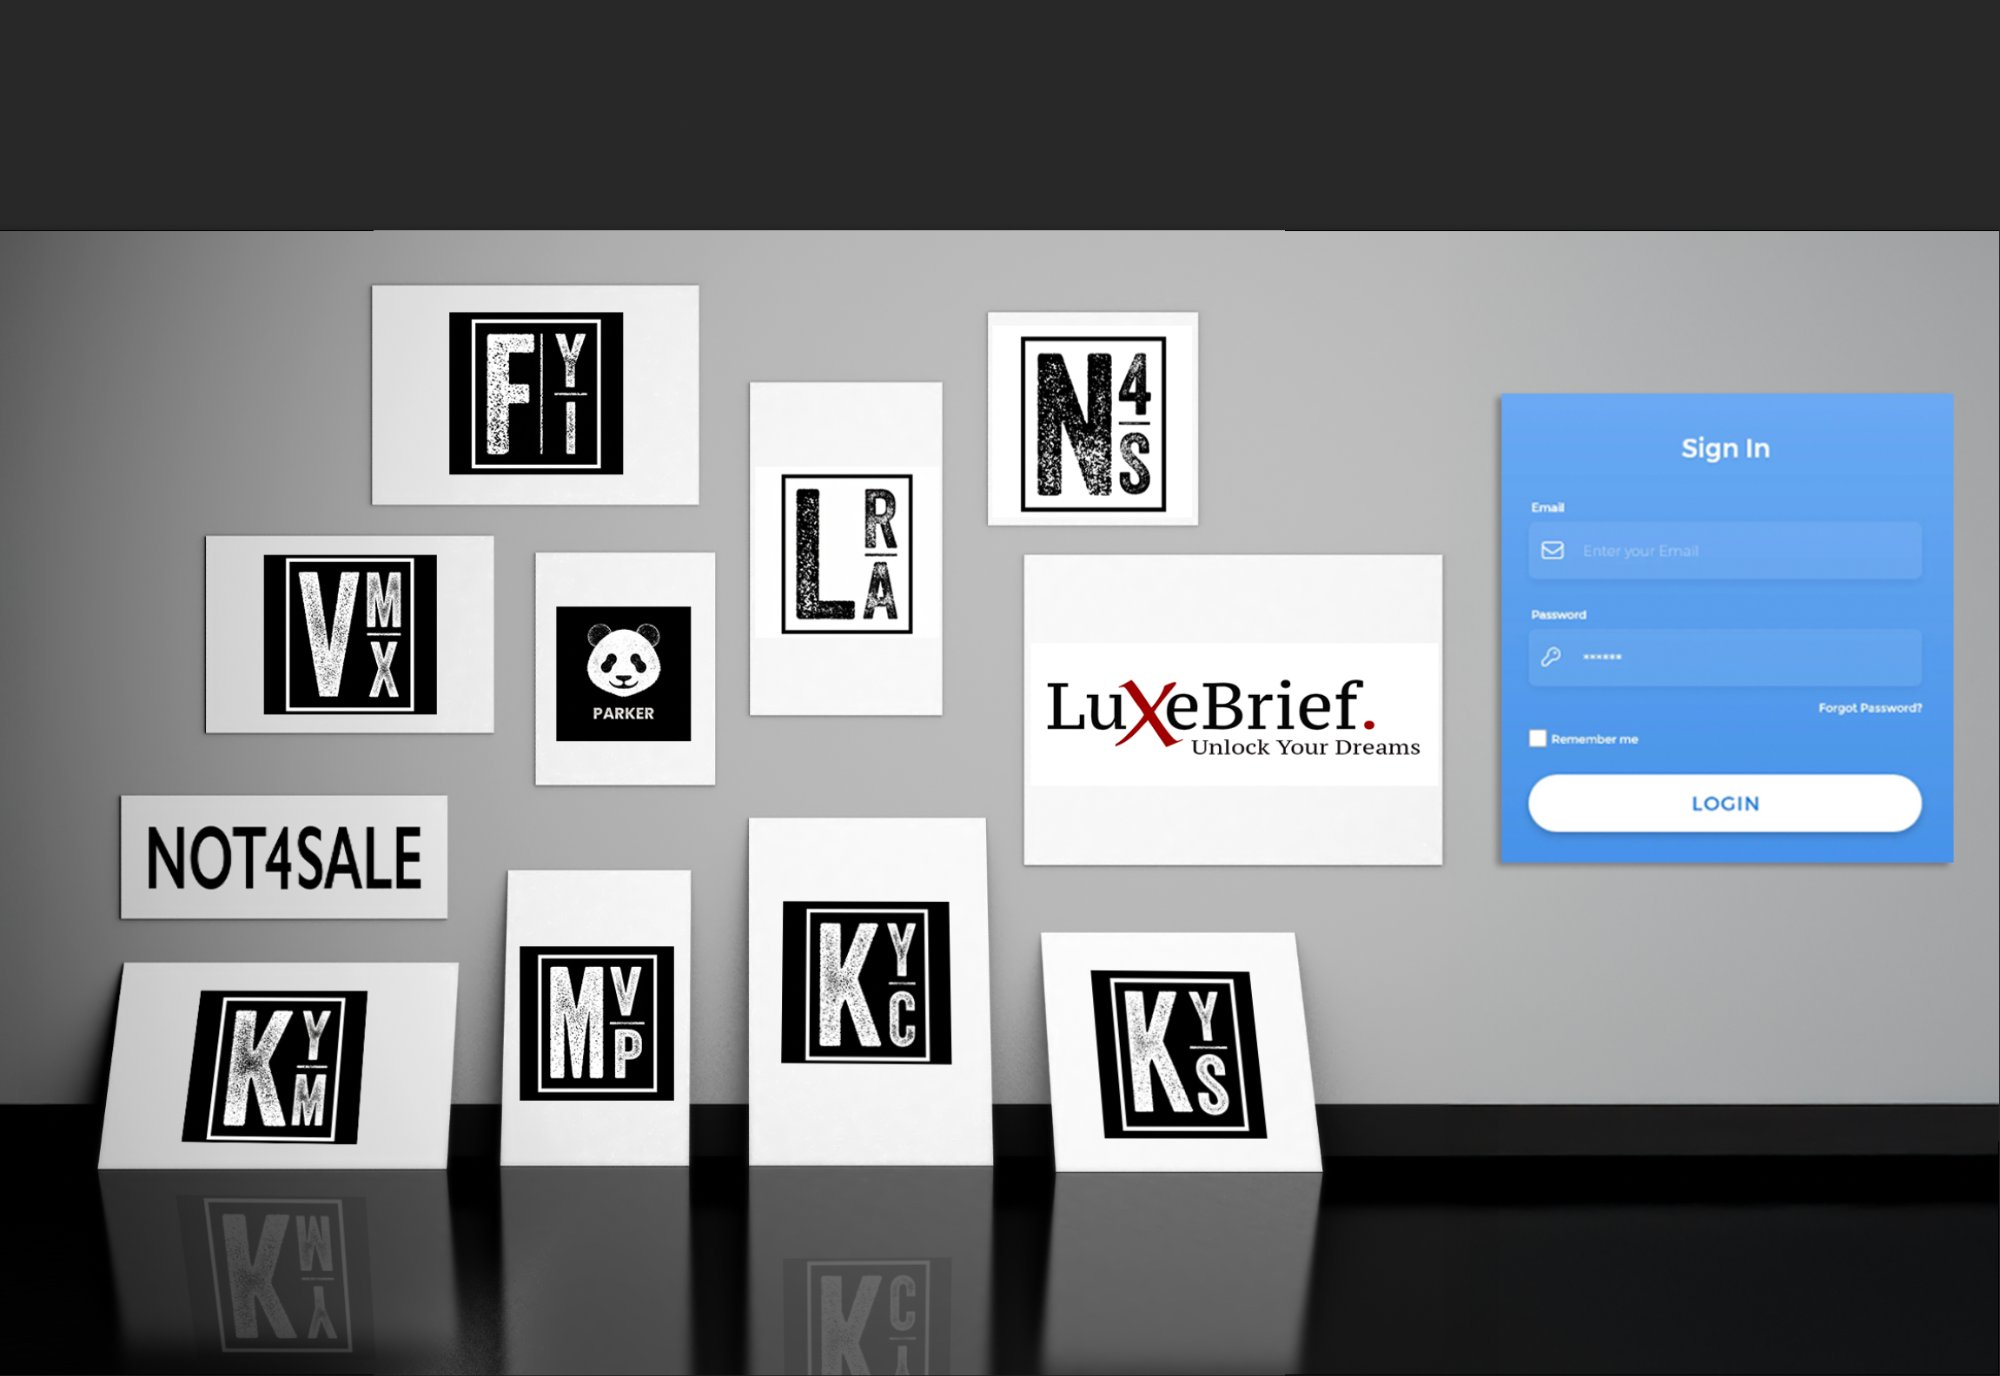
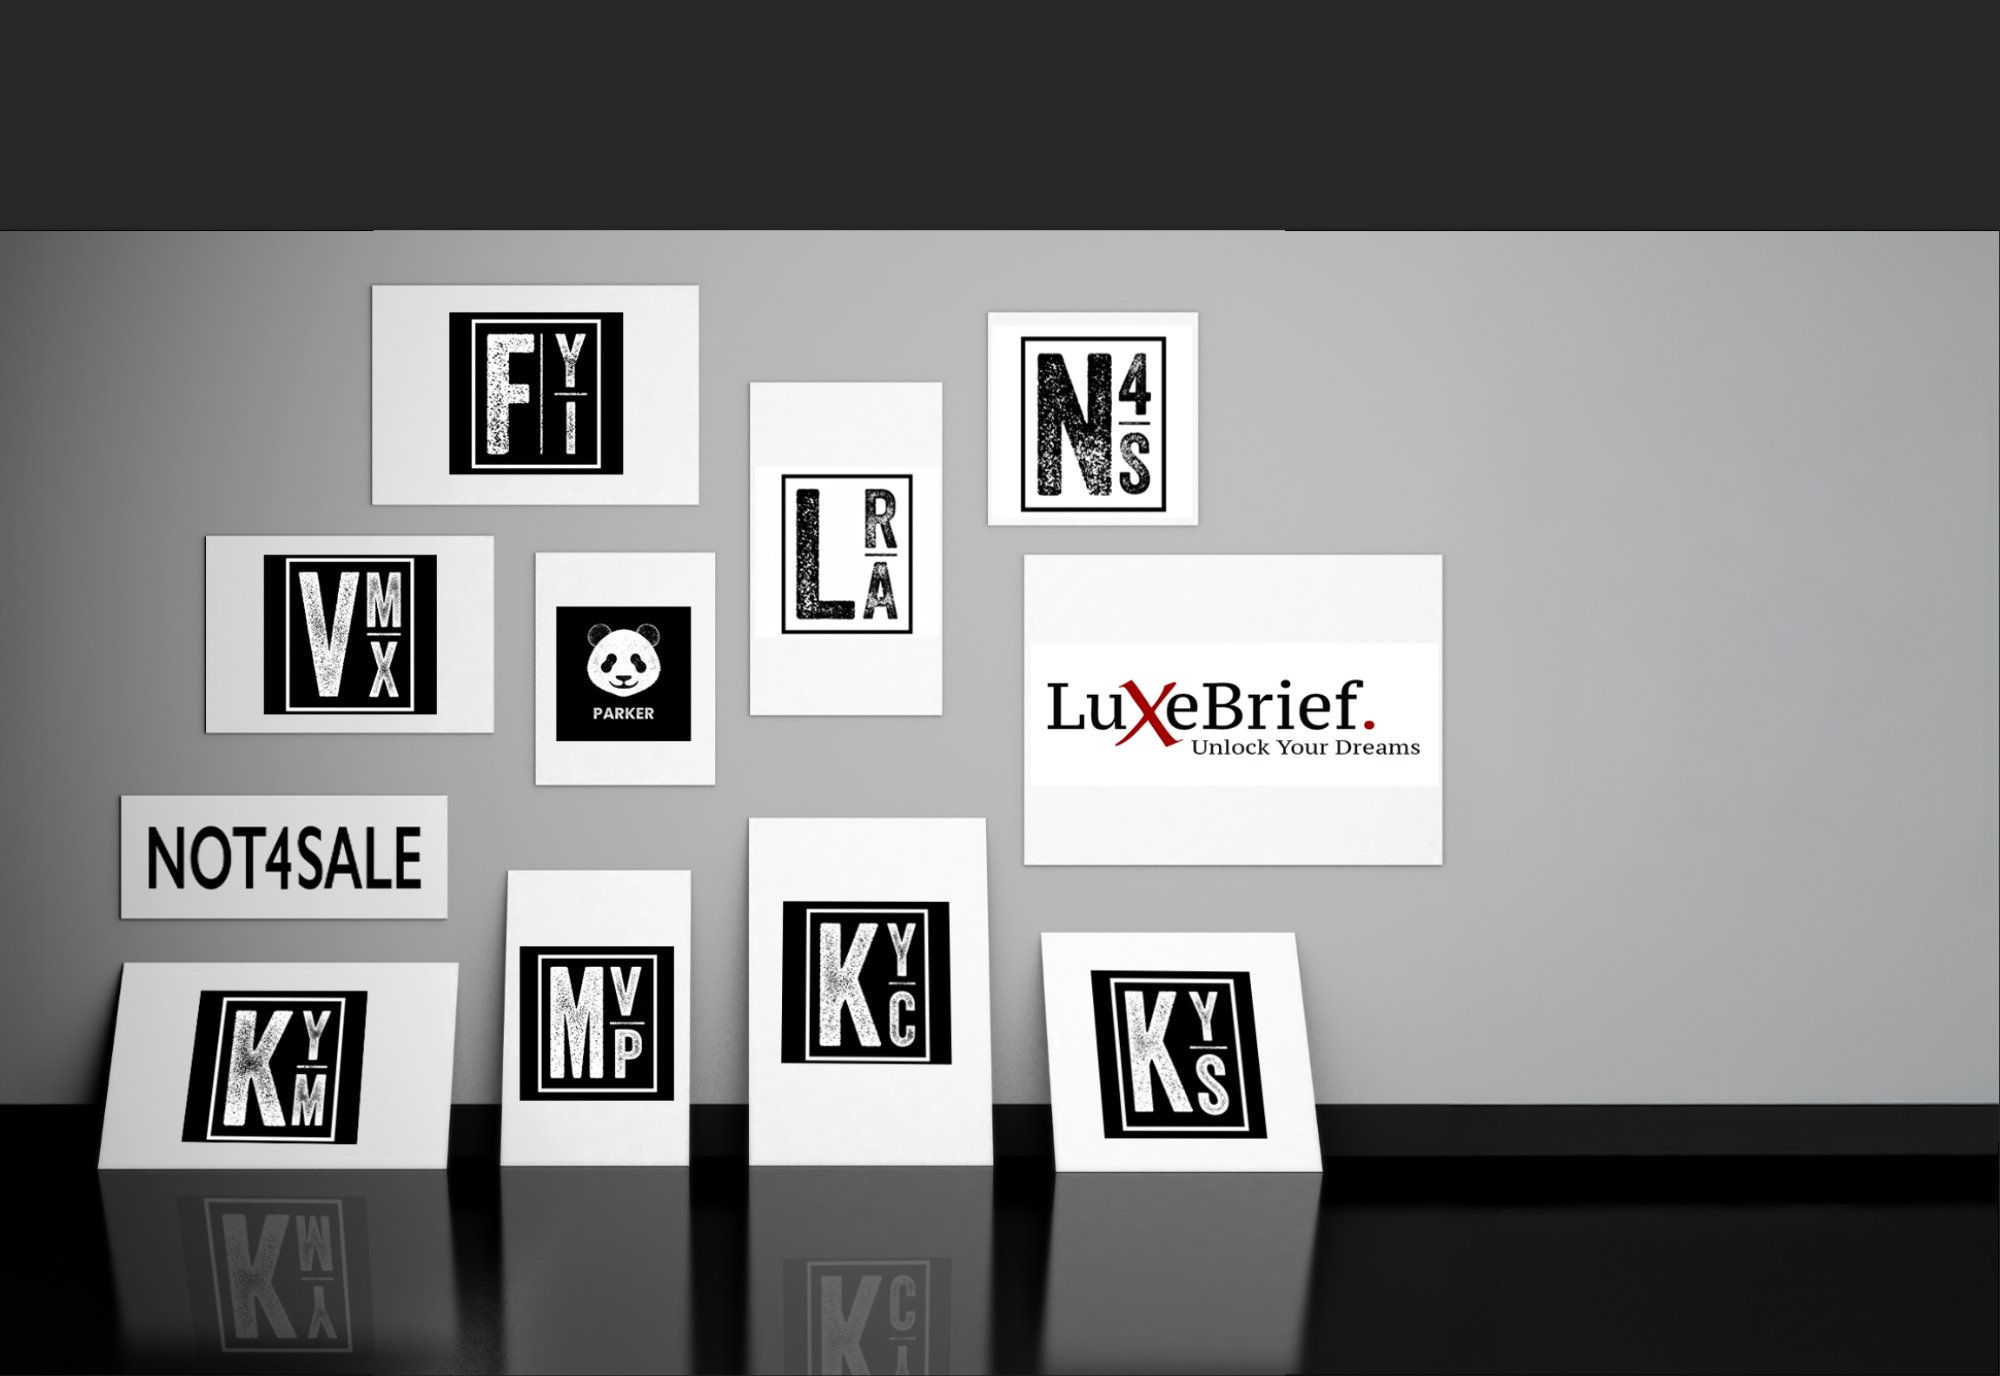
fix: clean login background (no blue box) + IONOS-compatible auth PHP
- Replaced login-bg.png with clean version (no blue sign-in overlay)
- Added ob_start() to auth.php and users.php for IONOS header compatibility
- Added try/catch error handling around all DB operations in auth.php
- Added usersTableExists() check with clear error message if table missing
- Wrapped session_regenerate_id in @suppress for IONOS compatibility
- Session check returns authenticated:false gracefully on any error

Changed region(s): [[0.744, 0.2812, 0.992, 0.6562]]

diff --git a/api/auth.php b/api/auth.php
@@ -8,67 +8,90 @@
  *   GET  /auth.php?action=check    — Check current session validity
  *   POST /auth.php?action=change_password — Change own password
  */
+ob_start();
 require_once 'config.php';
 
-// Start session with secure settings
-ini_set('session.cookie_httponly', 1);
-ini_set('session.cookie_samesite', 'Lax');
-ini_set('session.use_strict_mode', 1);
-session_start();
+// Start session (IONOS-compatible — no ini_set overrides)
+if (session_status() === PHP_SESSION_NONE) {
+    session_start();
+}
 
 $action = $_GET['action'] ?? '';
 $method = $_SERVER['REQUEST_METHOD'];
 
 // ============================================================================
+// Helper: Check if users table exists
+// ============================================================================
+function usersTableExists() {
+    try {
+        $pdo = getDB();
+        $stmt = $pdo->query("SHOW TABLES LIKE 'users'");
+        return $stmt->rowCount() > 0;
+    } catch (Exception $e) {
+        return false;
+    }
+}
+
+// ============================================================================
 // LOGIN
 // ============================================================================
 if ($action === 'login' && $method === 'POST') {
-    $input = json_decode(file_get_contents('php://input'), true);
-    $username = trim($input['username'] ?? '');
-    $password = $input['password'] ?? '';
+    try {
+        $input = json_decode(file_get_contents('php://input'), true);
+        $username = trim($input['username'] ?? '');
+        $password = $input['password'] ?? '';
 
-    if (!$username || !$password) {
-        errorResponse('Username and password are required', 400);
+        if (!$username || !$password) {
+            errorResponse('Username and password are required', 400);
+        }
+
+        if (!usersTableExists()) {
+            errorResponse('Users table not found. Please run setup-users.php first.', 500);
+        }
+
+        $pdo = getDB();
+        $stmt = $pdo->prepare('SELECT id, username, password_hash, display_name, role, is_active FROM users WHERE username = ?');
+        $stmt->execute([$username]);
+        $user = $stmt->fetch();
+
+        if (!$user) {
+            errorResponse('Invalid username or password', 401);
+        }
+
+        if (!$user['is_active']) {
+            errorResponse('Account is disabled. Contact your administrator.', 403);
+        }
+
+        if (!password_verify($password, $user['password_hash'])) {
+            errorResponse('Invalid username or password', 401);
+        }
+
+        // Update last login
+        $stmt = $pdo->prepare('UPDATE users SET last_login = NOW() WHERE id = ?');
+        $stmt->execute([$user['id']]);
+
+        // Set session
+        if (function_exists('session_regenerate_id')) {
+            @session_regenerate_id(true);
+        }
+        $_SESSION['user_id'] = $user['id'];
+        $_SESSION['username'] = $user['username'];
+        $_SESSION['role'] = $user['role'];
+        $_SESSION['display_name'] = $user['display_name'];
+        $_SESSION['login_time'] = time();
+
+        jsonResponse([
+            'success' => true,
+            'user' => [
+                'id' => $user['id'],
+                'username' => $user['username'],
+                'display_name' => $user['display_name'],
+                'role' => $user['role'],
+            ]
+        ]);
+    } catch (Exception $e) {
+        errorResponse('Login error: ' . $e->getMessage(), 500);
     }
-
-    $pdo = getDB();
-    $stmt = $pdo->prepare('SELECT id, username, password_hash, display_name, role, is_active FROM users WHERE username = ?');
-    $stmt->execute([$username]);
-    $user = $stmt->fetch();
-
-    if (!$user) {
-        errorResponse('Invalid username or password', 401);
-    }
-
-    if (!$user['is_active']) {
-        errorResponse('Account is disabled. Contact your administrator.', 403);
-    }
-
-    if (!password_verify($password, $user['password_hash'])) {
-        errorResponse('Invalid username or password', 401);
-    }
-
-    // Update last login
-    $stmt = $pdo->prepare('UPDATE users SET last_login = NOW() WHERE id = ?');
-    $stmt->execute([$user['id']]);
-
-    // Set session
-    session_regenerate_id(true);
-    $_SESSION['user_id'] = $user['id'];
-    $_SESSION['username'] = $user['username'];
-    $_SESSION['role'] = $user['role'];
-    $_SESSION['display_name'] = $user['display_name'];
-    $_SESSION['login_time'] = time();
-
-    jsonResponse([
-        'success' => true,
-        'user' => [
-            'id' => $user['id'],
-            'username' => $user['username'],
-            'display_name' => $user['display_name'],
-            'role' => $user['role'],
-        ]
-    ]);
 }
 
 // ============================================================================
@@ -91,26 +114,33 @@ if ($action === 'logout' && $method === 'POST') {
 // SESSION CHECK
 // ============================================================================
 if ($action === 'check' && $method === 'GET') {
-    if (isset($_SESSION['user_id'])) {
-        // Verify user still exists and is active
-        $pdo = getDB();
-        $stmt = $pdo->prepare('SELECT id, username, display_name, role, is_active FROM users WHERE id = ?');
-        $stmt->execute([$_SESSION['user_id']]);
-        $user = $stmt->fetch();
+    try {
+        if (isset($_SESSION['user_id'])) {
+            if (!usersTableExists()) {
+                jsonResponse(['authenticated' => false], 200);
+            }
 
-        if ($user && $user['is_active']) {
-            jsonResponse([
-                'authenticated' => true,
-                'user' => [
-                    'id' => $user['id'],
-                    'username' => $user['username'],
-                    'display_name' => $user['display_name'],
-                    'role' => $user['role'],
-                ]
-            ]);
+            $pdo = getDB();
+            $stmt = $pdo->prepare('SELECT id, username, display_name, role, is_active FROM users WHERE id = ?');
+            $stmt->execute([$_SESSION['user_id']]);
+            $user = $stmt->fetch();
+
+            if ($user && $user['is_active']) {
+                jsonResponse([
+                    'authenticated' => true,
+                    'user' => [
+                        'id' => $user['id'],
+                        'username' => $user['username'],
+                        'display_name' => $user['display_name'],
+                        'role' => $user['role'],
+                    ]
+                ]);
+            }
         }
+        jsonResponse(['authenticated' => false], 200);
+    } catch (Exception $e) {
+        jsonResponse(['authenticated' => false], 200);
     }
-    jsonResponse(['authenticated' => false], 200);
 }
 
 // ============================================================================
@@ -121,32 +151,36 @@ if ($action === 'change_password' && $method === 'POST') {
         errorResponse('Not authenticated', 401);
     }
 
-    $input = json_decode(file_get_contents('php://input'), true);
-    $currentPassword = $input['current_password'] ?? '';
-    $newPassword = $input['new_password'] ?? '';
+    try {
+        $input = json_decode(file_get_contents('php://input'), true);
+        $currentPassword = $input['current_password'] ?? '';
+        $newPassword = $input['new_password'] ?? '';
 
-    if (!$currentPassword || !$newPassword) {
-        errorResponse('Current and new password are required', 400);
+        if (!$currentPassword || !$newPassword) {
+            errorResponse('Current and new password are required', 400);
+        }
+
+        if (strlen($newPassword) < 8) {
+            errorResponse('New password must be at least 8 characters', 400);
+        }
+
+        $pdo = getDB();
+        $stmt = $pdo->prepare('SELECT password_hash FROM users WHERE id = ?');
+        $stmt->execute([$_SESSION['user_id']]);
+        $user = $stmt->fetch();
+
+        if (!password_verify($currentPassword, $user['password_hash'])) {
+            errorResponse('Current password is incorrect', 401);
+        }
+
+        $newHash = password_hash($newPassword, PASSWORD_DEFAULT);
+        $stmt = $pdo->prepare('UPDATE users SET password_hash = ?, updated_at = NOW() WHERE id = ?');
+        $stmt->execute([$newHash, $_SESSION['user_id']]);
+
+        jsonResponse(['success' => true, 'message' => 'Password changed successfully']);
+    } catch (Exception $e) {
+        errorResponse('Password change error: ' . $e->getMessage(), 500);
     }
-
-    if (strlen($newPassword) < 8) {
-        errorResponse('New password must be at least 8 characters', 400);
-    }
-
-    $pdo = getDB();
-    $stmt = $pdo->prepare('SELECT password_hash FROM users WHERE id = ?');
-    $stmt->execute([$_SESSION['user_id']]);
-    $user = $stmt->fetch();
-
-    if (!password_verify($currentPassword, $user['password_hash'])) {
-        errorResponse('Current password is incorrect', 401);
-    }
-
-    $newHash = password_hash($newPassword, PASSWORD_DEFAULT);
-    $stmt = $pdo->prepare('UPDATE users SET password_hash = ?, updated_at = NOW() WHERE id = ?');
-    $stmt->execute([$newHash, $_SESSION['user_id']]);
-
-    jsonResponse(['success' => true, 'message' => 'Password changed successfully']);
 }
 
 // Fallback

diff --git a/api/users.php b/api/users.php
@@ -10,6 +10,7 @@
  *   POST   /users.php?id=X&action=delete   — Delete user (soft: deactivate)
  *   POST   /users.php?id=X&action=reset_password — Admin reset password
  */
+ob_start();
 require_once 'config.php';
 
 // Start session
